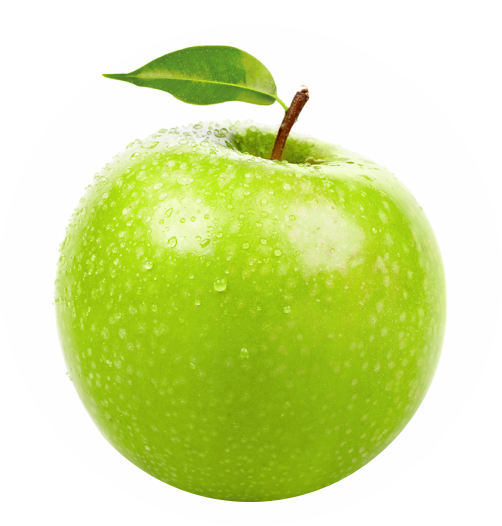
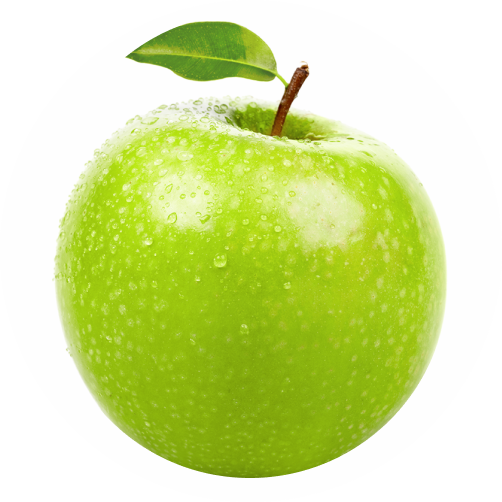
add media offering

diff --git a/src/css/offering.css b/src/css/offering.css
@@ -1,94 +1,132 @@
-
-
-
 .offering-section {
-    background-color: var(--yellow-color);
-    padding: 100px 0;
+  background-color: var(--yellow-color);
+  padding: 60px 0;
 }
 
 .offering-container {
-    display: flex;
-    justify-content: space-between;
-    align-items: center;
+  display: flex;
+  flex-direction: column;
+  gap: 60px;
+  align-items: center;
 }
 
 .offering-left {
-    padding: 24px;
-    border-radius: 50%;
-    border: 5px solid rgba(255, 255, 255, 0.50);
-    display: flex;
-    justify-content: center;
-    align-items: center;
-    
+  padding: 24px;
+  border-radius: 50%;
+  border: 5px solid rgba(255, 255, 255, 0.5);
+  display: flex;
+  justify-content: center;
+  align-items: center;
 }
+
 .offering-right {
-    width: 473px;
+  display: flex;
+  flex-direction: column;
+  align-items: start;
 }
 .offering-title {
-    font-size: 42px;
-    font-weight: 700;
-    line-height: 1.2;
-    max-width: 526px;
-    letter-spacing: 0.02em;
-    margin: 0 auto;
-    padding-bottom: 20px;
+  font-size: 28px;
+  font-weight: 700;
+  line-height: 1.2;
+  letter-spacing: 0.02em;
+  margin-bottom: 27px;
+}
+
+.offering-text {
+  font-size: 14px;
+  font-weight: 400;
+  line-height: 1.5;
+  letter-spacing: 0.04em;
+  margin-bottom: 28px;
+}
+
+.offering-list {
+  display: flex;
+  flex-direction: column;
+  gap: 28px;
+  justify-content: center;
+  align-items: center;
+  margin-bottom: 40px;
+}
+
+.icon-container {
+  width: 48px;
+  height: 48px;
+  background-color: #fefefe;
+  border-radius: 50%;
+  display: flex;
+  justify-content: center;
+  align-items: center;
+}
+
+.offering-icon {
+  fill: #7eb101;
+}
+
+.offering-subtitle {
+  margin-bottom: 16px;
+  color: #2c2c2c;
+  font-family: Roboto, sans-serif;
+  font-size: 18px;
+  font-weight: 700;
+  line-height: 1.5;
+}
+
+.offering-description {
+  color: #2c2c2c;
+  font-family: Roboto, sans-serif;
+  font-size: 14px;
+  line-height: 1.5;
+}
+
+.offering-button {
+  height: 40px;
+  min-width: 106px;
+  padding: 10px 22px;
+  border-radius: 30px;
+  border: 2px solid var(--Dark-green, #7eb101);
+  background: #fff;
+  font-family: Roboto;
+  font-size: 13px;
+  font-weight: 500;
+  line-height: 1.5;
+}
+
+@media screen and (min-width: 768px) {
+  .offering-container {
+    align-items: start;
+    gap: 65px;
   }
-  
+
+  .offering-title {
+    width: 526px;
+    font-size: 42px;
+    margin-bottom: 20px;
+  }
+
   .offering-text {
     font-size: 16px;
-    font-weight: 400;
-    line-height: 1.5;
-    letter-spacing: 0.04em;
-    margin: 0 auto;
-    max-width: 500px;
+    margin-bottom: 40px;
+    width: 500px;
   }
 
   .offering-list {
-    display: flex;
-    gap: 67px;
-    justify-content: center;
-    align-items: center;
+    flex-direction: row;
+    margin-bottom: 60px;
+    gap: 116px;
   }
-  
-  .icon-container {
-    width: 48px;
-    height: 48px;
-    padding: 8px;
-    background-color: #FEFEFE;
-    border-radius: 50%;
-    display: flex;
-    justify-content: center;
-    align-items: center;
+}
+
+@media screen and (min-width: 1280px) {
+  .offering-container {
+    flex-direction: row;
+    gap: 126px;
   }
-  
-  .offering-icon {
-    fill: #7eb101;
-  }
-  
-  .offering-subtitle {
-    margin-bottom: 16px;
-    color: #2c2c2c;
-    font-family: Roboto, sans-serif;
-    font-size: 18px;
-    font-weight: 700;
-    line-height: 1.5;
-  }
-  
-  .offering-description {
-    color: #2c2c2c;
-    font-family: Roboto, sans-serif;
-    font-size: 14px;
-    line-height: 1.5;
+  .offering-left {
+    width: 550px;
   }
 
-  .offering-button {
-    display: inline-flex;
-    height: 40px;
-    padding: 10px 22px;
-    justify-content: center;
-    align-items: center;
-    flex-shrink: 0;
-    border-radius: 30px;
-    border: 2px solid var(--Dark-green, #7eb101);
-    background: #fff;
+  .picture-image {
+    width: 550px;
   }
+}

diff --git a/src/partials/offering.html b/src/partials/offering.html
@@ -1,12 +1,31 @@
 <section class="offering-section">
   <div class="container offering-container">
     <div class="offering-left">
-      <img
-        src="./img/offering/apple.png"
-        alt="green-apple"
-        width="502"
-        height="502"
-      />
+      <picture class="picture-image">
+        <source
+          media="(min-width: 1280px)"
+          srcset="
+            ./img/offering/apple.png
+          "
+        />
+        <source
+          media="(min-width: 768px)"
+          srcset="
+            ./img/offering/tab-apple.png
+          "
+        />
+        <source
+          media="(max-width: 767px)"
+          srcset="
+            ./img/offering/mob-apple.png
+          "
+        />
+        <img
+          src="./img/offering/apple.png"
+          alt="Apple"
+        />
+      </picture>
+
     </div>
 
     <div class="offering-right">
@@ -19,7 +38,7 @@
       <ul class="offering-list">
         <li class="offering-item">
           <div class="icon-container">
-            <svg class="oferring-icon" width="32" height="32">
+            <svg class="offering-icon" width="32" height="32">
               <use href="./img/offering/offering.svg#icon-rocket"></use>
             </svg>
           </div>
@@ -31,7 +50,7 @@
         </li>
         <li class="offering-item">
           <div class="icon-container">
-            <svg class="oferring-icon" width="32" height="32">
+            <svg class="offering-icon" width="32" height="32">
               <use href="./img/offering/offering.svg#icon-touch"></use>
             </svg>
           </div>
